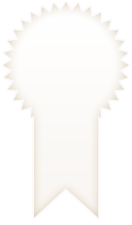
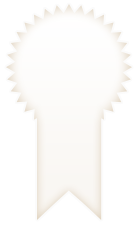
Map Changed

diff --git a/vendor/assets/stylesheets/tabs.css b/vendor/assets/stylesheets/tabs.css
@@ -141,7 +141,7 @@ h3, p {
 }
 
 .iconMedal {
-    margin: 5px 15px 5px 35px;
+    margin: 5px 25px 5px 20px;
     display: block;
     float: left;
 }
